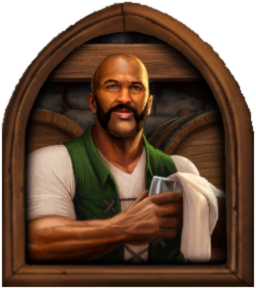
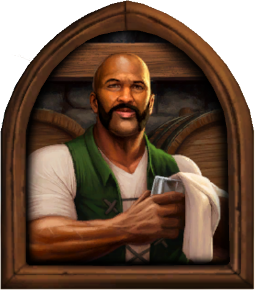
feat(bob): add specific Bob image for battlegrounds mode

diff --git a/style.css b/style.css
@@ -24,7 +24,7 @@ body {
     font-size: 16px;
 }
 
-body.wild::before {
+body.wild::before, body.battlegrounds::before {
 	content: '';
 	display: block;
 	pointer-events: none;
@@ -32,6 +32,10 @@ body.wild::before {
 	z-index: 0;
 	inset: 0;
 	background-color: rgba(97, 67, 38, 0.2);
+}
+
+body.battlegrounds::before {
+	background-color: rgba(215, 95, 95, 0.2);
 }
 
 @keyframes fadeIn { from { opacity: 0; } to { opacity: 1; }  }
@@ -314,6 +318,22 @@ body.wild::before {
     transform-origin: bottom left;
     z-index: 100;
     transform: scale(.7);
+}
+
+.bob-normal {
+    display: inline;
+}
+
+.bob-battlegrounds {
+    display: none;
+}
+
+.battlegrounds .bob-normal {
+    display: none;
+}
+
+.battlegrounds .bob-battlegrounds {
+    display: inline;
 }
 
 #damage {

diff --git a/index.html b/index.html
@@ -111,7 +111,8 @@
             
             <figure id="player">
                 <div id="damage"><span id="damageValue" class="hearthstoneText"></span></div>
-                <img src="images/bob.png" alt="" />
+                <img class="bob-normal" src="images/bob.png" alt="" />
+                <img class="bob-battlegrounds" src="images/bob2.png" alt="" />
                 <div id="playerHealthContainer">
                     <span id="playerHealth" class="hearthstoneText">30</span>
                 </div>
